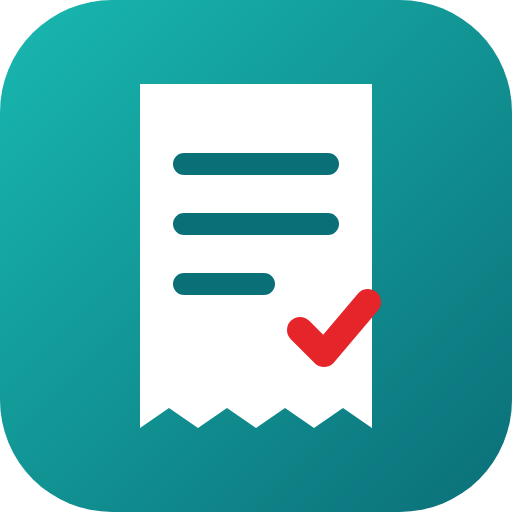
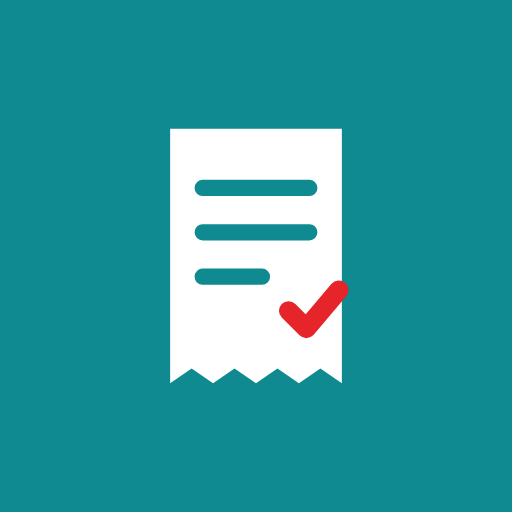
Pantalla de carga turquesa a pantalla completa, como Kettlebell
Claude-Session: https://claude.ai/code/session_01SoBXEtSShYwogeAoAnSvTc

diff --git a/sw.js b/sw.js
@@ -1,7 +1,7 @@
 /* Compra Mayorista: funciona sin conexión.
    - La app (index) se pide primero a internet y, si no hay señal, sale de la copia guardada.
    - Íconos y fuentes se guardan al usarlos. */
-var CACHE = 'compra-mayorista-v2';
+var CACHE = 'compra-mayorista-v3';
 var BASE = ['./', './index.html', './manifest.webmanifest', './icon-192.png', './icon-512.png', './maskable-512.png', './apple-touch-icon.png'];
 self.addEventListener('install', function (e) {
   e.waitUntil(caches.open(CACHE).then(function (c) { return c.addAll(BASE); }).then(function () { return self.skipWaiting(); }));

diff --git a/index.html b/index.html
@@ -3,7 +3,7 @@
 <head>
 <meta charset="utf-8">
 <meta name="viewport" content="width=device-width,initial-scale=1,viewport-fit=cover">
-<meta name="theme-color" content="#eef1f5">
+<meta name="theme-color" content="#0e8a90">
 <meta name="mobile-web-app-capable" content="yes">
 <meta name="apple-mobile-web-app-capable" content="yes">
 <meta name="apple-mobile-web-app-title" content="Mayorista">
